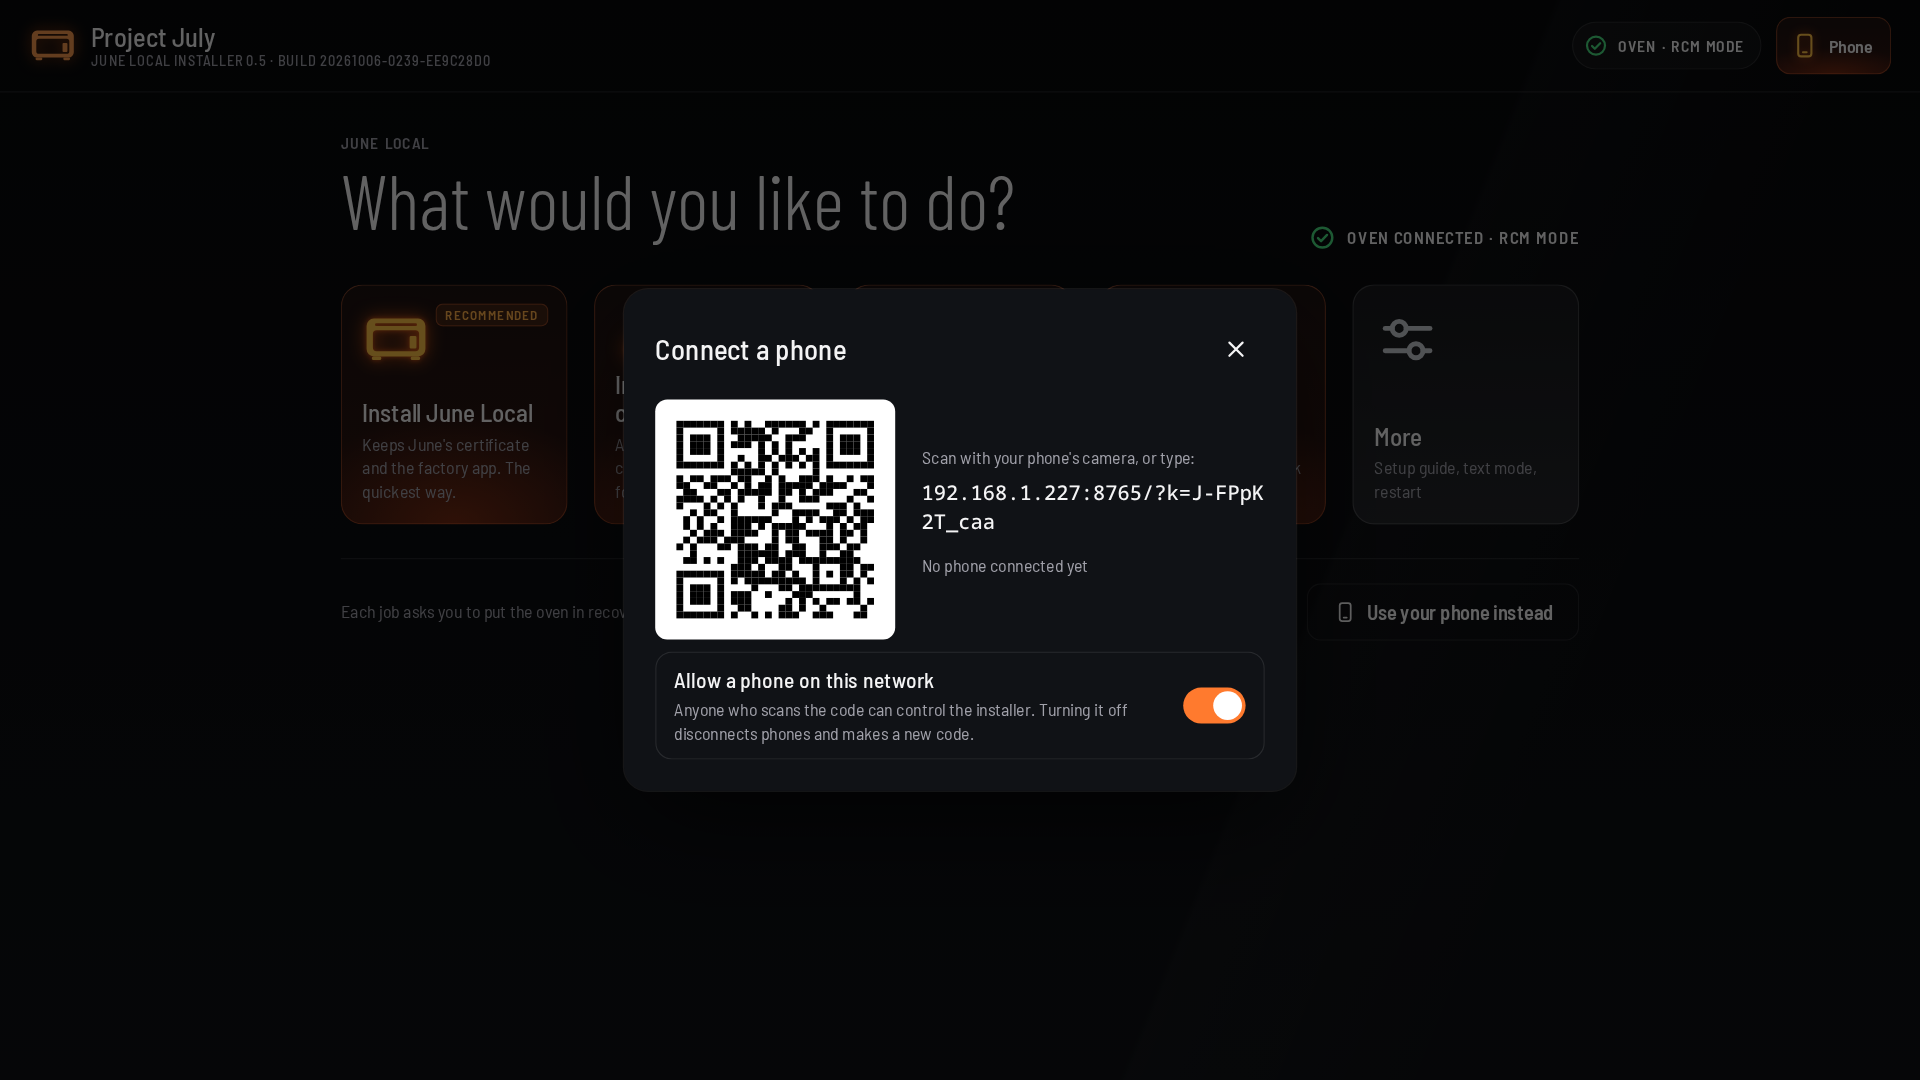
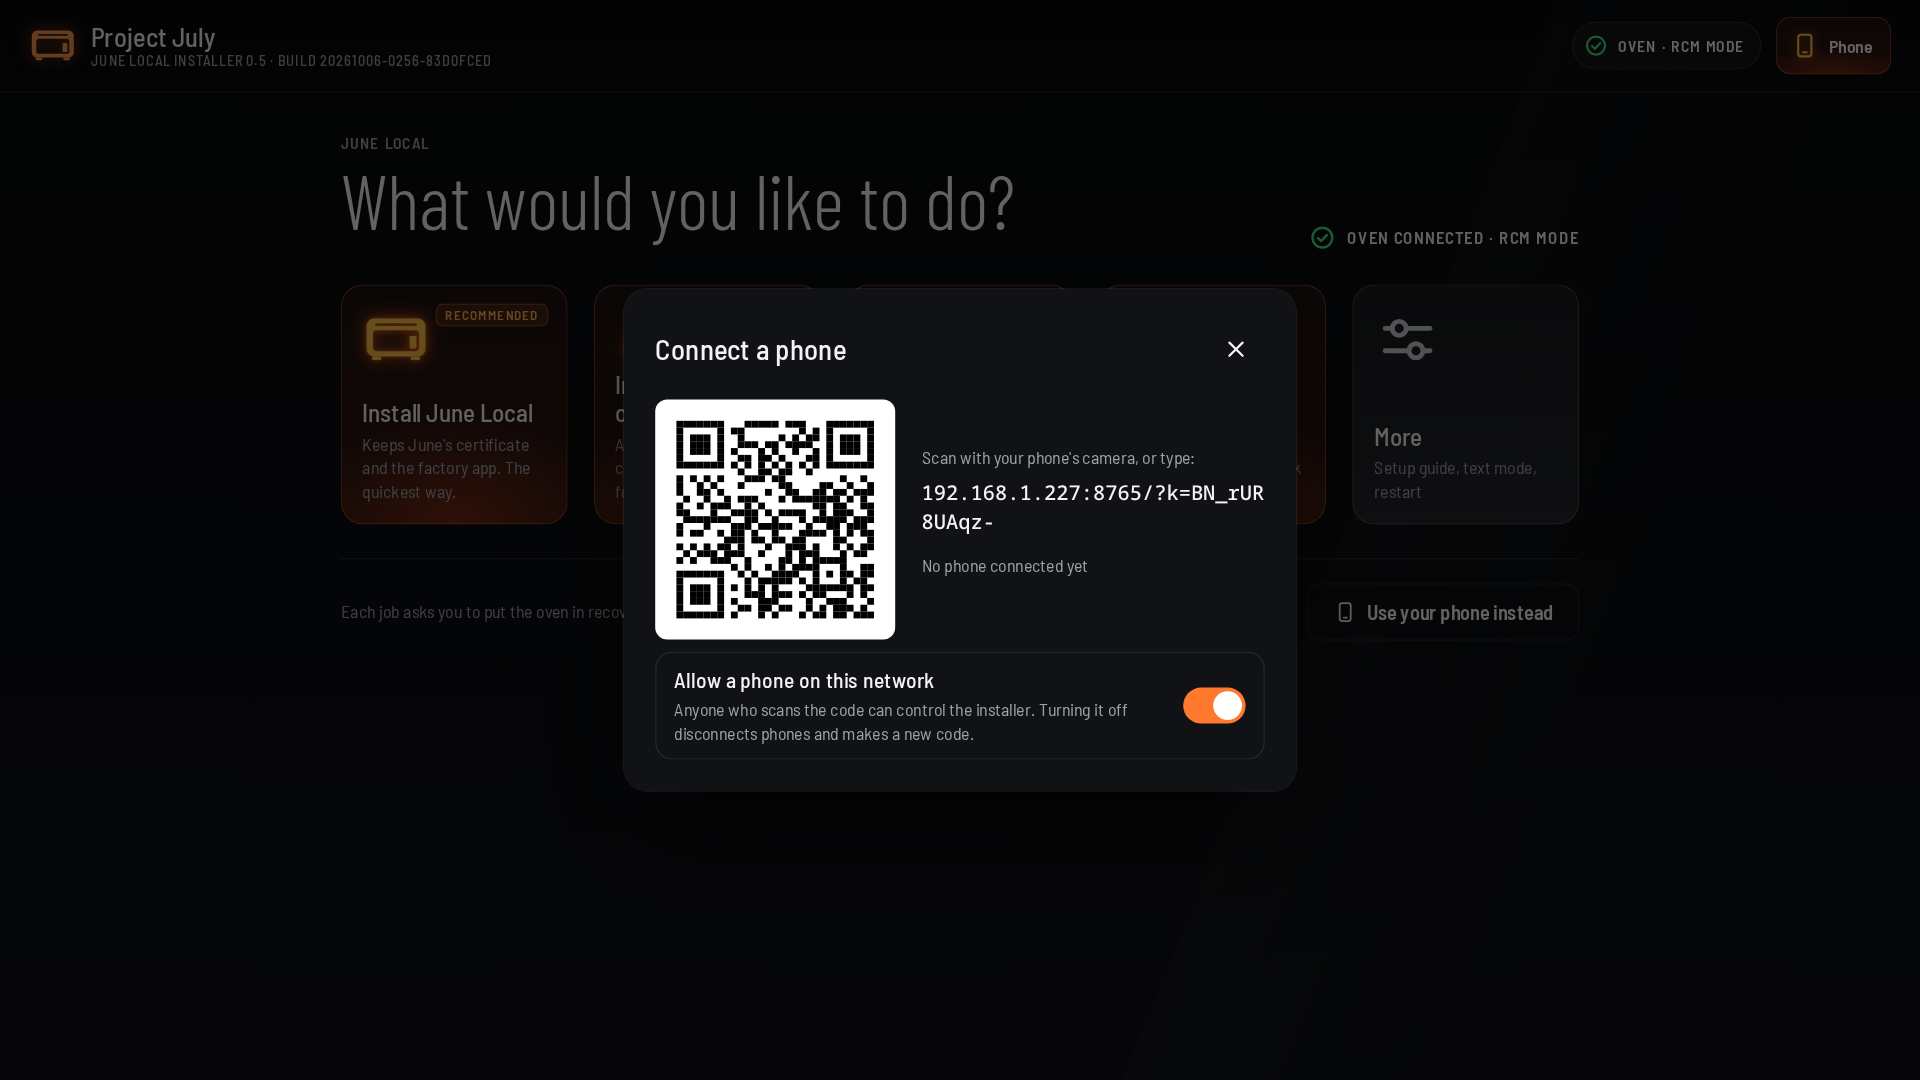
mockups: rebuild against release build 20261006-0256-83d0fced

Changed region(s): [[0.3438, 0.3667, 0.5, 0.5806], [0.625, 0.4278, 0.6562, 0.4583], [0.2188, 0.0306, 0.25, 0.0611]]

diff --git a/website-assets/installer-mockups/capture.py b/website-assets/installer-mockups/capture.py
@@ -32,7 +32,7 @@ PNG = HERE / "png"
 PORT = int(os.environ.get("MOCK_PORT", "8765"))
 BASE = f"http://127.0.0.1:{PORT}"
 VERSION = os.environ.get("JUNE_VERSION", "0.5")
-BUILD_ID = os.environ.get("JUNE_BUILD_ID", "20261006-0239-ee9c28d0")
+BUILD_ID = os.environ.get("JUNE_BUILD_ID", "20261006-0256-83d0fced")
 
 STAGES = [
     ("01-home.png", "Installer home",

diff --git a/website-assets/installer-mockups/captions.md b/website-assets/installer-mockups/captions.md
@@ -1,6 +1,6 @@
 # June Local installer mockups
 
-Rendered from the real installer UI (version 0.5, build 20261006-0239-ee9c28d0).
+Rendered from the real installer UI (version 0.5, build 20261006-0256-83d0fced).
 
 | File | Stage | What it shows |
 | --- | --- | --- |
